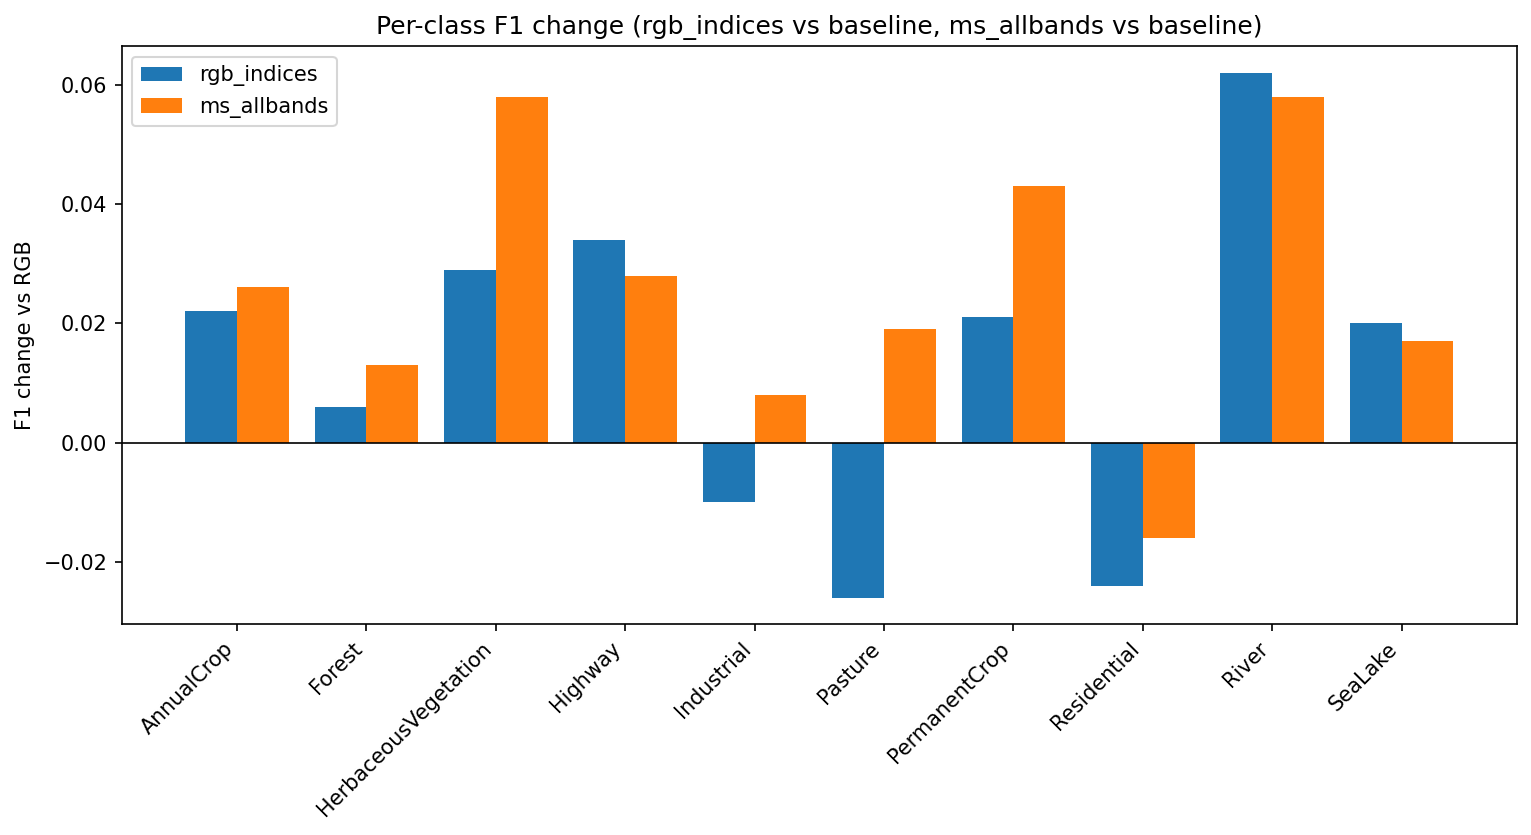
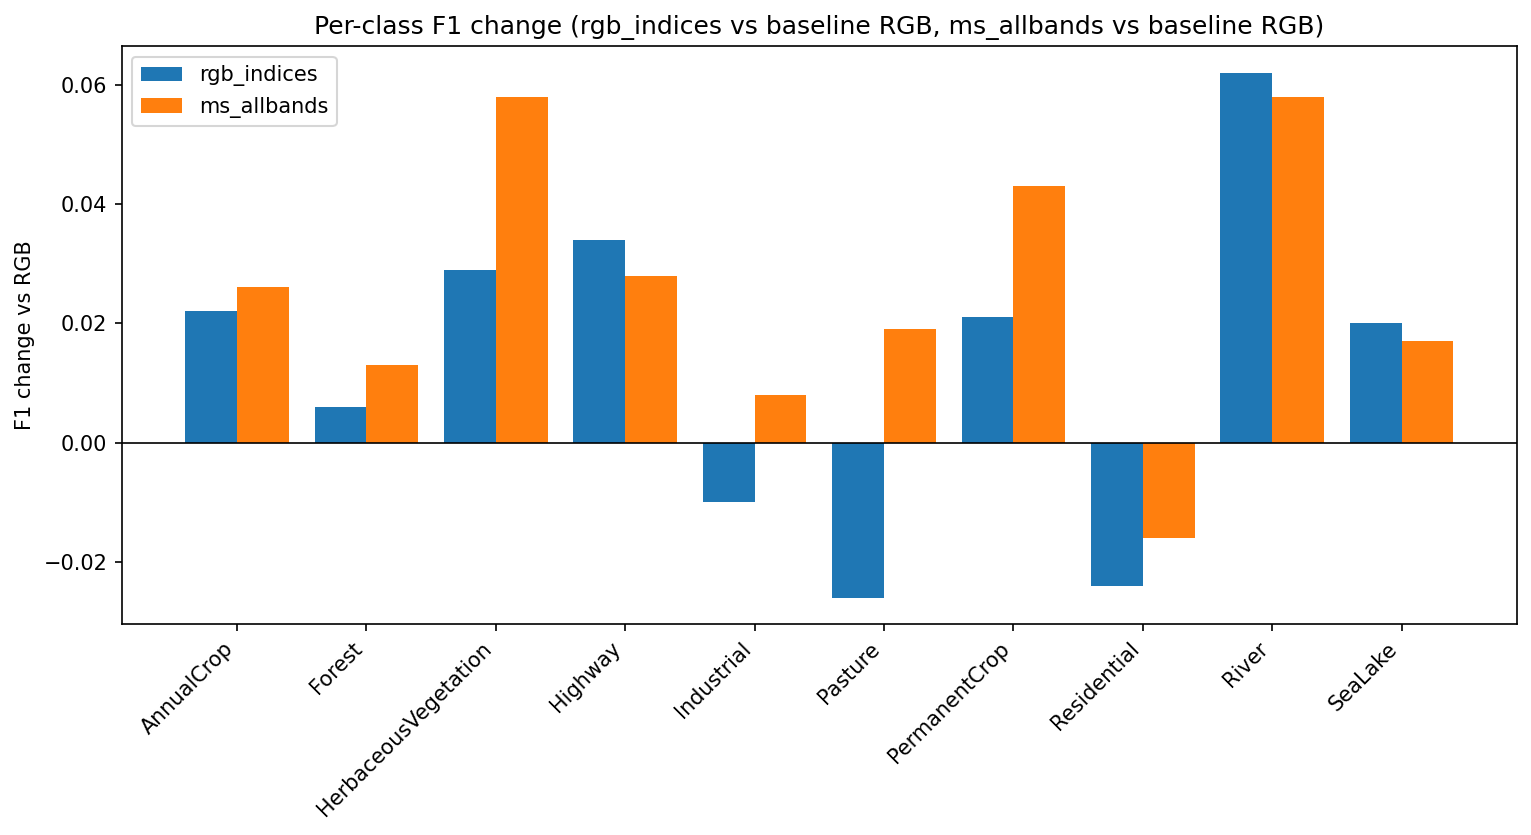
final version

Changed region(s): [[0.2149, 0.0, 0.614, 0.0623], [0.8289, 0.0, 0.8596, 0.0623]]

diff --git a/readme.md b/readme.md
@@ -125,6 +125,14 @@ and scikit-learn. The stratified 80/20 split is computed once, written to `data_
 and read by every model, so the comparison is fair and repeatable. Per-channel normalisation
 statistics are computed on the training data only, to avoid leakage into the test set.
 
+### Reproducing the results from the command line
+
+To run the entire pipeline non-interactively and regenerate all metrics, artifacts, and figures:
+
+```bash
+jupyter nbconvert --to notebook --execute --inplace main.ipynb
+```
+
 Expected runtime on CPU is roughly 20 to 60 minutes per CNN model depending on hardware,
 and a few minutes for the Random Forest feature extraction (which is cached to
 `artifacts/rf_features.csv` so re-runs are faster). Training is considerably quicker on a
@@ -135,6 +143,7 @@ are repeatable. Across different hardware (CPU versus GPU versus Apple MPS), sma
 floating-point differences can appear in the final decimals, which is normal for deep
 learning and does not change the conclusions.
 
+
 ## Outputs
 
 After a full run the following are produced:
@@ -142,6 +151,7 @@ After a full run the following are produced:
 - `artifacts/` contains per-model metrics (`*_metrics.json`), per-patch test predictions
   (`*_test_predictions.csv`), trained model weights (`*.pt`), the comparison tables, and the
   Random Forest results.
+- `artifacts/` contains per-model metrics (`*_metrics.json`), per-patch test predictions (`*_test_predictions.csv`),    trained model weights (`*.pt`), the comparison tables (`comparison_summary.csv`, `per_class_deltas.csv`), and the Random Forest results (`rf_results.json`, `rf_feature_importance.csv`, `rf_features.csv`).
 - `visualisations/` contains all figures, including the per-class F1 comparison, the
   confusion-difference matrix, sample predictions, and the Random Forest feature importance.
 